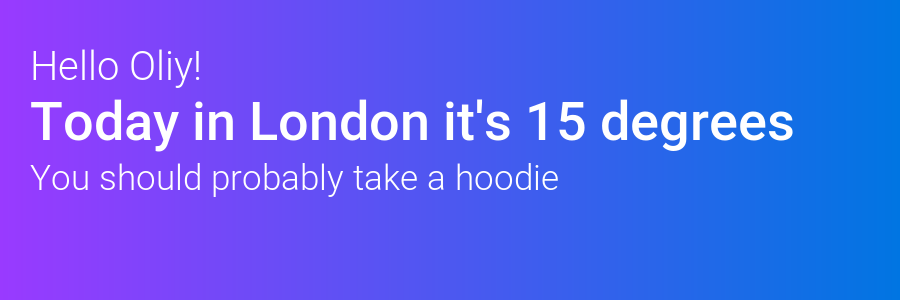
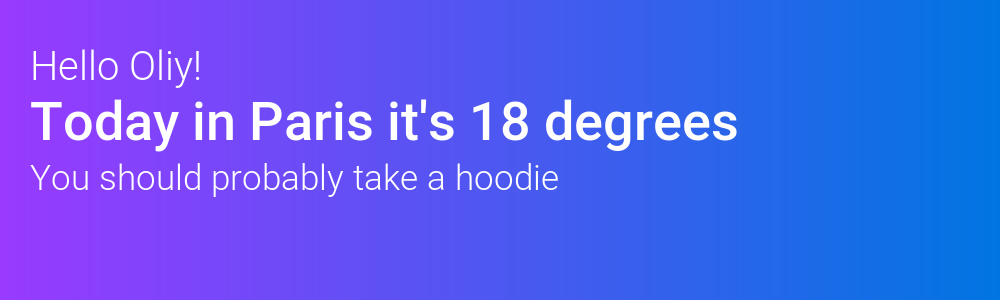
Added to the set command to be able to update with it as well

Changed region(s): [[0.0311, 0.33, 0.9022, 0.51], [0.0311, 0.54, 0.6222, 0.66], [0.0311, 0.15, 0.2489, 0.3]]

diff --git a/commands/set.js b/commands/set.js
@@ -1,7 +1,6 @@
 const MongoClient = require('mongodb').MongoClient;
 
 exports.run = (client, message, args) => {
-  console.log(message.author.id)
   MongoClient.connect(client.config.mongoURL, function(err, db) {
     if (err) throw err
     var weatherman = db.db("weatherman");
@@ -10,11 +9,29 @@ exports.run = (client, message, args) => {
       location: args[0],
       preferredUnit: args[1]
     };
-    weatherman.collection("users").insertOne(details, function(err, res) {
+    weatherman.collection("users").findOne({
+      userid: message.author.id
+    }, function(err, result) {
       if (err) throw err;
-      console.log("Location updated for user " + message.author.id);
+      if (result === null) {
+        weatherman.collection("users").insertOne(details, function(err, res) {
+          if (err) throw err;
+          console.log("Location updated for user " + message.author.id);
+
+          message.channel.send('Location set!').catch(console.error);
+        });
+      } else {
+        var query = { userid: message.author.id };
+        var updatedLocation = { $set: {location: args[0], preferredUnit: args[1] } };
+        weatherman.collection("users").updateOne(query, updatedLocation, function(err, res) {
+        if (err) throw err;
+        console.log("Location updated for user " + message.author.id);
+
+        message.channel.send('Location updated!').catch(console.error);
+      })
+      }
       db.close();
-      message.channel.send('Location updated!').catch(console.error);
     });
-  });
+
+  })
 }

diff --git a/commands/weather.js b/commands/weather.js
@@ -3,7 +3,7 @@ var Api = require('../api.js')
 var clothing = require('../clothingDecider.js')
 var fs = require("fs");
 var Canvas = require("canvas");
-var canvas = new Canvas(900, 300, "png");
+var canvas = new Canvas(1000, 300, "png");
 var g = canvas.getContext("2d"),
 grd;
 
@@ -22,11 +22,11 @@ exports.run = (client, message, args) => {
               var string = `Today in ${resp.name} it's ${temperatureRounded} degrees`;
               var string2 = clothing.decideClothing(temperatureRounded, result.preferredUnit);
 
-              grd = g.createLinearGradient(0.000, 150.000, 900.000, 150.000);
+              grd = g.createLinearGradient(0.000, 150.000, 1000.000, 150.000);
               grd.addColorStop(0.00, 'rgba(153, 58, 255, 1.000)');
               grd.addColorStop(1.000, 'rgba(0, 117, 226, 1.000)');
               g.fillStyle = grd;
-              g.fillRect(0, 0, 900, 300);
+              g.fillRect(0, 0, 1000, 300);
 
               g.font = "40px RobotoLight";
               g.fillStyle = "white";
